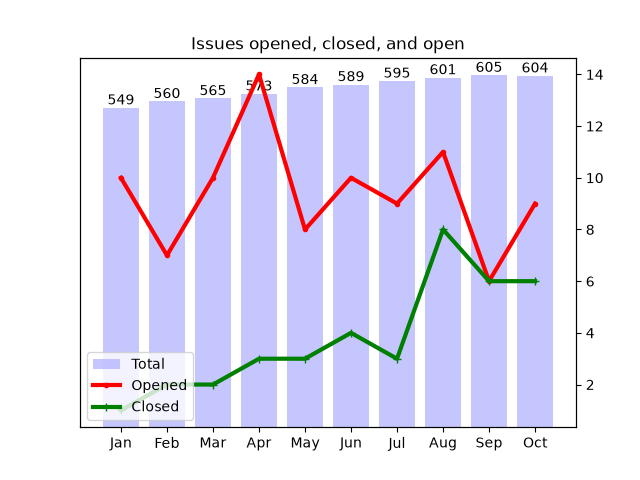
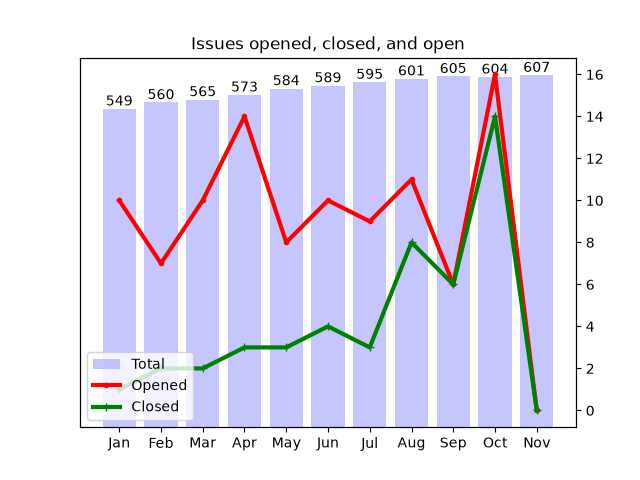
Apply automatic changes

diff --git a/docs/analytics.html b/docs/analytics.html
@@ -114,8 +114,13 @@ td .material-icons { display:inline-flex; vertical-align: top; font-size:1.1rem;
 						</tr>
 						<tr>
 							<td>Oct</td>
-							<td>9</td>
-							<td>6</td>
+							<td>16</td>
+							<td>14</td>
+						</tr>
+						<tr>
+							<td>Nov</td>
+							<td>0</td>
+							<td>0</td>
 						</tr>
 					</table>
 				</div>
@@ -135,7 +140,7 @@ td .material-icons { display:inline-flex; vertical-align: top; font-size:1.1rem;
 							<td>
 								<a href="http://github.com/notofonts/latin-greek-cyrillic/issues">latin-greek-cyrillic</a>
 							</td>
-							<td>160</td>
+							<td>161</td>
 						</tr>
 						<tr>
 							<td>
@@ -147,7 +152,7 @@ td .material-icons { display:inline-flex; vertical-align: top; font-size:1.1rem;
 							<td>
 								<a href="http://github.com/notofonts/nastaliq/issues">nastaliq</a>
 							</td>
-							<td>32</td>
+							<td>31</td>
 						</tr>
 						<tr>
 							<td>
@@ -275,9 +280,9 @@ td .material-icons { display:inline-flex; vertical-align: top; font-size:1.1rem;
 						<tr>
 							<td>1</td>
 							<td>
-									<a href="http://github.com/notofonts/latin-greek-cyrillic/issues">latin-greek-cyrillic</a>: 160, 
+									<a href="http://github.com/notofonts/latin-greek-cyrillic/issues">latin-greek-cyrillic</a>: 161, 
 
-									<a href="http://github.com/notofonts/nastaliq/issues">nastaliq</a>: 32, 
+									<a href="http://github.com/notofonts/nastaliq/issues">nastaliq</a>: 31, 
 
 									<a href="http://github.com/notofonts/arabic/issues">arabic</a>: 25, 
 
@@ -736,17 +741,38 @@ td .material-icons { display:inline-flex; vertical-align: top; font-size:1.1rem;
 									data-target="#month-Oct .releases"
 								>
 									<span class="material-icons"></span>
-									8 releases
+									10 releases
 								</button>
 								<ul class="releases collapse">
 									<li><a href="https://github.com/notofonts/arabic/releases/tag/NotoSansArabic-v2.013">NotoSansArabic-v2.013</a></li>
 									<li><a href="https://github.com/notofonts/arabic/releases/tag/NotoNaskhArabic-v2.020">NotoNaskhArabic-v2.020</a></li>
 									<li><a href="https://github.com/notofonts/arabic/releases/tag/NotoKufiArabic-v2.110">NotoKufiArabic-v2.110</a></li>
+									<li><a href="https://github.com/notofonts/mongolian/releases/tag/NotoSansMongolian-v3.103">NotoSansMongolian-v3.103</a></li>
 									<li><a href="https://github.com/notofonts/mongolian/releases/tag/NotoSansMongolian-v3.100">NotoSansMongolian-v3.100</a></li>
 									<li><a href="https://github.com/notofonts/music/releases/tag/NotoMusic-v2.004">NotoMusic-v2.004</a></li>
 									<li><a href="https://github.com/notofonts/nandinagari/releases/tag/NotoSansNandinagari-v1.003">NotoSansNandinagari-v1.003</a></li>
 									<li><a href="https://github.com/notofonts/sinhala/releases/tag/NotoSansSinhala-v3.000">NotoSansSinhala-v3.000</a></li>
 									<li><a href="https://github.com/notofonts/syriac/releases/tag/NotoSansSyriacWestern-v3.001">NotoSansSyriacWestern-v3.001</a></li>
+									<li><a href="https://github.com/notofonts/noto-cjk-varco/releases/tag/v0.005">v0.005</a></li>
+								</ul>
+							</td>
+						</tr>
+
+						<tr>
+							<td>Nov</td>
+							<td id="month-Nov">
+								<button
+									class="btn btn-link collapsed"
+									data-toggle="collapse"
+									data-target="#month-Nov .releases"
+								>
+									<span class="material-icons"></span>
+									3 releases
+								</button>
+								<ul class="releases collapse">
+									<li><a href="https://github.com/notofonts/latin-greek-cyrillic/releases/tag/NotoSerif-v2.015">NotoSerif-v2.015</a></li>
+									<li><a href="https://github.com/notofonts/latin-greek-cyrillic/releases/tag/NotoSans-v2.015">NotoSans-v2.015</a></li>
+									<li><a href="https://github.com/notofonts/rejang/releases/tag/NotoSansRejang-v2.003">NotoSansRejang-v2.003</a></li>
 								</ul>
 							</td>
 						</tr>
